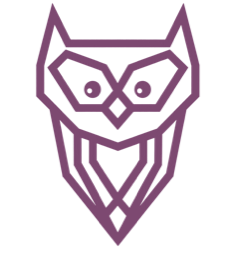
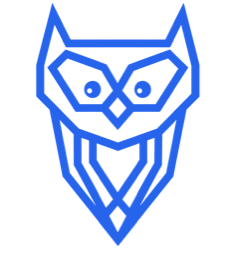
Switch to a light blue theme (Hexgate-inspired); drop terracotta
Recolour the palette to a light take on Hexgate's dark UI: cool light
neutrals, dark cool ink, and Hexgate blue (#2563eb) as the single accent.
Remove the terracotta/clay third colour to stay shadcn-clean (primary +
neutrals + a green status). Recolour the owl logo + favicon to blue and
update the OG image. Dark bands use a cool navy-black; conseil trio reads
dark / blue / light.

Changed region(s): [[0.1483, 0.0, 0.8602, 0.9688]]

diff --git a/src/components/sections/home/WorkflowDiagram.tsx b/src/components/sections/home/WorkflowDiagram.tsx
@@ -6,8 +6,8 @@ const HEX_CLIP = "polygon(50% 0,100% 25%,100% 75%,50% 100%,0 75%,0 25%)";
 
 // Colours + animation delays are presentation-only; labels come from messages.
 const stepStyles = [
-  { color: "var(--color-verm)", delay: "0s" },
-  { color: "var(--color-clay)", delay: "1.1s" },
+  { color: "var(--color-primary)", delay: "0s" },
+  { color: "var(--color-accent-bright)", delay: "1.1s" },
   { color: "var(--color-green)", delay: "2.2s" },
 ];
 
@@ -55,16 +55,16 @@ export function WorkflowDiagram() {
                 className="relative mt-[34px] h-[230px] overflow-hidden rounded-3xl"
                 style={{
                   background:
-                    "linear-gradient(90deg,rgba(163,84,47,.06),rgba(124,72,112,.07))",
+                    "linear-gradient(90deg,rgba(37,99,235,.05),rgba(96,165,250,.07))",
                 }}
               >
-                {/* Drifting clay dots */}
+                {/* Drifting blue dots */}
                 <div
                   aria-hidden
-                  className="absolute inset-0 opacity-75"
+                  className="absolute inset-0 opacity-70"
                   style={{
                     backgroundImage:
-                      "radial-gradient(var(--color-clay) 1.6px,transparent 1.6px)",
+                      "radial-gradient(var(--color-accent-bright) 1.6px,transparent 1.6px)",
                     backgroundSize: "24px 24px",
                     maskImage:
                       "linear-gradient(90deg,#000 0%,rgba(0,0,0,.4) 44%,transparent 64%)",
@@ -73,10 +73,10 @@ export function WorkflowDiagram() {
                     animation: "hx-drift 22s linear infinite alternate",
                   }}
                 />
-                {/* Static plum dots */}
+                {/* Static primary dots */}
                 <div
                   aria-hidden
-                  className="absolute inset-0 opacity-50"
+                  className="absolute inset-0 opacity-45"
                   style={{
                     backgroundImage:
                       "radial-gradient(var(--color-primary) 1.5px,transparent 1.5px)",
@@ -85,16 +85,6 @@ export function WorkflowDiagram() {
                       "linear-gradient(90deg,transparent 34%,rgba(0,0,0,.25) 52%,#000 88%)",
                     WebkitMaskImage:
                       "linear-gradient(90deg,transparent 34%,rgba(0,0,0,.25) 52%,#000 88%)",
-                  }}
-                />
-                {/* Sweeping light */}
-                <div
-                  aria-hidden
-                  className="absolute inset-y-0 left-0 w-1/4"
-                  style={{
-                    background:
-                      "linear-gradient(90deg,transparent,rgba(255,255,255,.75),transparent)",
-                    animation: "hx-sweep 9s cubic-bezier(.4,0,.6,1) infinite",
                   }}
                 />
                 {/* Baseline */}
@@ -116,11 +106,8 @@ export function WorkflowDiagram() {
                     >
                       <div className="flex flex-col items-center gap-3.5">
                         <span
-                          className="whitespace-nowrap rounded-full px-2.5 py-[7px] font-mono text-[11px] font-medium tracking-[0.14em]"
-                          style={{
-                            background: "rgba(255,255,255,.78)",
-                            color: stepStyles[i].color,
-                          }}
+                          className="whitespace-nowrap rounded-full border border-border bg-card px-2.5 py-[7px] font-mono text-[11px] font-medium tracking-[0.14em] shadow-sm"
+                          style={{ color: stepStyles[i].color }}
                         >
                           {s.n}
                           <span className="hidden sm:inline"> · {s.word}</span>
@@ -140,16 +127,10 @@ export function WorkflowDiagram() {
                 </div>
 
                 {/* Corner pills */}
-                <div
-                  className="absolute left-2 top-4 rounded-full px-2.5 py-[7px] font-mono text-[10px] text-muted-foreground sm:left-[18px] sm:px-3 sm:text-[11.5px]"
-                  style={{ background: "rgba(255,255,255,.72)" }}
-                >
+                <div className="absolute left-2 top-4 rounded-full border border-border bg-card px-2.5 py-[7px] font-mono text-[10px] text-muted-foreground shadow-sm sm:left-[18px] sm:px-3 sm:text-[11.5px]">
                   {t("enjeu")}
                 </div>
-                <div
-                  className="absolute right-2 top-4 flex items-center gap-2 rounded-full px-2.5 py-[7px] font-mono text-[10px] text-foreground sm:right-[18px] sm:px-3 sm:text-[11.5px]"
-                  style={{ background: "rgba(255,255,255,.72)" }}
-                >
+                <div className="absolute right-2 top-4 flex items-center gap-2 rounded-full border border-border bg-card px-2.5 py-[7px] font-mono text-[10px] text-foreground shadow-sm sm:right-[18px] sm:px-3 sm:text-[11.5px]">
                   <span
                     className="size-[7px] rounded-full bg-green"
                     style={{ animation: "hx-dot 2.4s ease-in-out infinite" }}

diff --git a/src/app/globals.css b/src/app/globals.css
@@ -6,53 +6,49 @@
   to Tailwind color utilities (bg-background, text-foreground, text-primary,
   bg-card, text-muted-foreground, border-border, …).
 
-  Palette: warm "paper" base + plum primary (inspired by the Hexgate roadmap
-  artifact), with clay / green / blue kept as secondary + status accents.
+  Palette: a light take on Hexgate's dark UI — cool light neutrals, dark cool
+  ink, and Hexgate blue as the single accent (plus a green status colour).
 */
 :root {
   /* Core surfaces & text */
-  --background: #f1e8d6; /* warm paper */
-  --foreground: #2b2620; /* warm ink */
-  --card: #faf5ea;
-  --card-foreground: #2b2620;
-  --popover: #faf5ea;
-  --popover-foreground: #2b2620;
-  --muted: #eaddc7;
-  --muted-foreground: #6a5d4d;
-  --secondary: #eaddc7;
-  --secondary-foreground: #2b2620;
+  --background: #f7f9fc; /* light cool */
+  --foreground: #0e1626; /* dark cool ink */
+  --card: #ffffff;
+  --card-foreground: #0e1626;
+  --popover: #ffffff;
+  --popover-foreground: #0e1626;
+  --muted: #eef2f8;
+  --muted-foreground: #5a6576;
+  --secondary: #eef2f8;
+  --secondary-foreground: #0e1626;
 
-  /* Brand primary — plum (works as a fill and as text on paper) */
-  --primary: #7c4870;
-  --primary-foreground: #faf5ea;
-  --primary-deep: #63385a; /* hover / pressed */
+  /* Brand primary — Hexgate blue (works as a fill and as text on light) */
+  --primary: #2563eb;
+  --primary-foreground: #ffffff;
+  --primary-deep: #1d4ed8; /* hover / pressed */
 
-  --destructive: #c84d62;
+  --destructive: #dc2626;
   --destructive-foreground: #ffffff;
 
-  --border: rgb(43 38 32 / 0.14);
-  --input: rgb(43 38 32 / 0.14);
-  --ring: #7c4870;
+  --border: rgb(14 22 38 / 0.1);
+  --input: rgb(14 22 38 / 0.1);
+  --ring: #2563eb;
   --radius: 1rem;
 
-  /* Dark section surface + on-dark text */
-  --ink: #221d18; /* warm near-black used for dark bands */
-  --cream: #f4ecdd;
+  /* Dark section surface + on-dark text (light theme's dark bands) */
+  --ink: #0b1220; /* dark cool navy-black, à la Hexgate */
+  --cream: #eef2f8;
 
   /* Secondary text + hairline */
-  --dim: #8a7c69;
-  --line-soft: rgb(43 38 32 / 0.08);
+  --dim: #7a8496;
+  --line-soft: rgb(14 22 38 / 0.06);
 
-  /* Plum tints for use on dark surfaces */
-  --accent-bright: #b985ae;
-  --accent-warm: #d0a7c7;
+  /* Blue tints for use on dark surfaces */
+  --accent-bright: #60a5fa;
+  --accent-warm: #93c5fd;
 
-  /* Secondary & status accents */
-  --clay: #a3542f; /* warm terracotta secondary (replaces the old cool teal) */
-  --green: #3f9166; /* allow */
-  --blue: #3d6fb0; /* wip */
-  --blue-strong: #2c5488;
-  --verm: #7c4870; /* workflow step 01 (plum) */
+  /* Status */
+  --green: #2f9e6f;
 }
 
 @theme inline {
@@ -89,11 +85,7 @@
   --color-line-soft: var(--line-soft);
   --color-accent-bright: var(--accent-bright);
   --color-accent-warm: var(--accent-warm);
-  --color-clay: var(--clay);
   --color-green: var(--green);
-  --color-blue: var(--blue);
-  --color-blue-strong: var(--blue-strong);
-  --color-verm: var(--verm);
 
   /* Type scale — sizes paired with their line-heights */
   --text-eyebrow: 0.8125rem; /* 13px */
@@ -129,7 +121,7 @@
   }
 
   ::selection {
-    background-color: rgb(124 72 112 / 0.2);
+    background-color: rgb(37 99 235 / 0.18);
   }
 
   /* Scroll-reveal: hidden only when JS is on AND motion is allowed, so no-JS
@@ -175,23 +167,15 @@
     background-position: 26px 13px;
   }
 }
-@keyframes hx-sweep {
-  0% {
-    transform: translateX(-30%);
-  }
-  100% {
-    transform: translateX(430%);
-  }
-}
 @keyframes hx-bloom {
   0%,
   100% {
     transform: scale(1);
-    box-shadow: 0 0 0 0 rgb(43 38 32 / 0);
+    box-shadow: 0 0 0 0 rgb(14 22 38 / 0);
   }
   45% {
     transform: scale(1.18);
-    box-shadow: 0 0 0 9px rgb(43 38 32 / 0.07);
+    box-shadow: 0 0 0 9px rgb(14 22 38 / 0.07);
   }
 }
 

diff --git a/src/app/[locale]/opengraph-image.tsx b/src/app/[locale]/opengraph-image.tsx
@@ -15,8 +15,8 @@ export default function OpengraphImage() {
           display: "flex",
           flexDirection: "column",
           justifyContent: "space-between",
-          background: "#E7E5D6",
-          color: "#0F1F4A",
+          background: "#f7f9fc",
+          color: "#0e1626",
           padding: "80px",
           fontFamily: "sans-serif",
         }}
@@ -26,14 +26,14 @@ export default function OpengraphImage() {
             style={{
               width: 26,
               height: 1,
-              background: "#0058bf",
+              background: "#2563eb",
             }}
           />
           <div
             style={{
               fontSize: 26,
               letterSpacing: 8,
-              color: "#004a9e",
+              color: "#1d4ed8",
               fontWeight: 600,
             }}
           >
@@ -58,15 +58,15 @@ export default function OpengraphImage() {
             }}
           >
             <span>We make&nbsp;</span>
-            <span style={{ color: "#0058bf" }}>&nbsp;AI work&nbsp;</span>
+            <span style={{ color: "#2563eb" }}>&nbsp;AI work&nbsp;</span>
             <span>&nbsp;for you.</span>
           </div>
-          <div style={{ fontSize: 30, color: "#394665", maxWidth: 900 }}>
+          <div style={{ fontSize: 30, color: "#5a6576", maxWidth: 900 }}>
             Conseil · Développement sur mesure · Modules d&rsquo;IA propriétaires
           </div>
         </div>
 
-        <div style={{ fontSize: 24, color: "#4C5878" }}>hexamind.ai</div>
+        <div style={{ fontSize: 24, color: "#7a8496" }}>hexamind.ai</div>
       </div>
     ),
     { ...size },

diff --git a/src/components/sections/ContactCta.tsx b/src/components/sections/ContactCta.tsx
@@ -4,11 +4,11 @@ import { Container } from "@/components/ui/Container";
 import { Reveal } from "@/components/ui/Reveal";
 import { Eyebrow } from "@/components/ui/Eyebrow";
 
-/** Full-width clay call-to-action band. Reused across pages. */
+/** Full-width primary call-to-action band. Reused across pages. */
 export function ContactCta() {
   const t = useTranslations("contactCta");
   return (
-    <section id="contact" className="bg-clay py-24 md:py-28">
+    <section id="contact" className="bg-primary py-24 md:py-28">
       <Reveal>
         <Container className="flex flex-wrap items-center justify-between gap-10">
           <div className="min-w-0">

diff --git a/src/components/ui/Section.tsx b/src/components/ui/Section.tsx
@@ -2,13 +2,13 @@ import { Container } from "@/components/ui/Container";
 import { Reveal } from "@/components/ui/Reveal";
 import { cn } from "@/lib/utils";
 
-export type SectionTone = "sable" | "panel" | "ink" | "clay";
+export type SectionTone = "sable" | "panel" | "ink" | "primary";
 
 const toneClass: Record<SectionTone, string> = {
   sable: "bg-background text-foreground",
   panel: "bg-card text-foreground",
   ink: "bg-ink text-cream",
-  clay: "bg-clay text-cream",
+  primary: "bg-primary text-cream",
 };
 
 /**

diff --git a/src/components/sections/home/Hero.tsx b/src/components/sections/home/Hero.tsx
@@ -29,7 +29,7 @@ export function Hero() {
         className="pointer-events-none absolute -right-20 -top-10 h-[620px] w-[900px] opacity-70"
         style={{
           backgroundImage:
-            "radial-gradient(var(--color-clay) 1.3px,transparent 1.3px)",
+            "radial-gradient(var(--color-primary) 1.3px,transparent 1.3px)",
           backgroundSize: "11px 11px",
           maskImage:
             "radial-gradient(58% 62% at 92% 8%,#000 0%,rgba(0,0,0,.5) 45%,transparent 78%)",

diff --git a/src/app/[locale]/offres/page.tsx b/src/app/[locale]/offres/page.tsx
@@ -114,7 +114,7 @@ export default async function OffresPage({
                   <ul className="mt-3 space-y-2 text-sm text-muted-foreground">
                     {o.deliverables.map((i) => (
                       <li key={i} className="flex gap-2">
-                        <span className="text-clay">•</span>
+                        <span className="text-primary">•</span>
                         {i}
                       </li>
                     ))}

diff --git a/src/app/[locale]/nous-rejoindre/page.tsx b/src/app/[locale]/nous-rejoindre/page.tsx
@@ -94,7 +94,7 @@ export default async function NousRejoindrePage({
                   <ul className="mt-3 space-y-2 text-sm text-muted-foreground">
                     {s.items.map((i) => (
                       <li key={i} className="flex gap-2">
-                        <span className="text-clay">•</span>
+                        <span className="text-primary">•</span>
                         {i}
                       </li>
                     ))}

diff --git a/src/components/ui/Button.tsx b/src/components/ui/Button.tsx
@@ -13,7 +13,7 @@ const variants: Record<Variant, string> = {
   // Outline on light surfaces.
   outline:
     "border border-border px-6 py-3 text-foreground hover:border-ink hover:bg-white",
-  // Cream fill — primary CTA on dark (ink/clay) surfaces.
+  // Cream fill — primary CTA on dark (ink) surfaces.
   cream:
     "bg-cream px-6 py-3 text-foreground hover:-translate-y-0.5 hover:bg-white",
   // Outline on dark surfaces.

diff --git a/src/components/ui/SectionHeader.tsx b/src/components/ui/SectionHeader.tsx
@@ -3,7 +3,7 @@ import { cn } from "@/lib/utils";
 
 /**
  * Eyebrow + heading (+ optional intro) block used at the top of most sections.
- * `tone="dark"` switches colours for ink/clay backgrounds.
+ * `tone="dark"` switches colours for dark backgrounds.
  */
 export function SectionHeader({
   eyebrow,

diff --git a/src/components/sections/home/StartOptions.tsx b/src/components/sections/home/StartOptions.tsx
@@ -18,7 +18,7 @@ const styles: Record<
     link: "border-cream/40 text-cream hover:bg-cream/10 hover:border-cream",
   },
   boostai: {
-    card: "bg-clay border-clay",
+    card: "bg-primary border-primary",
     title: "text-cream",
     tag: "text-cream/90",
     body: "text-cream/90",

diff --git a/src/components/ui/Eyebrow.tsx b/src/components/ui/Eyebrow.tsx
@@ -2,7 +2,7 @@ import { cn } from "@/lib/utils";
 
 /**
  * Small section label: a short rule followed by mono, letter-spaced text.
- * `tone="cream"` is used on dark (ink/clay) backgrounds.
+ * `tone="cream"` is used on dark backgrounds.
  */
 export function Eyebrow({
   children,
